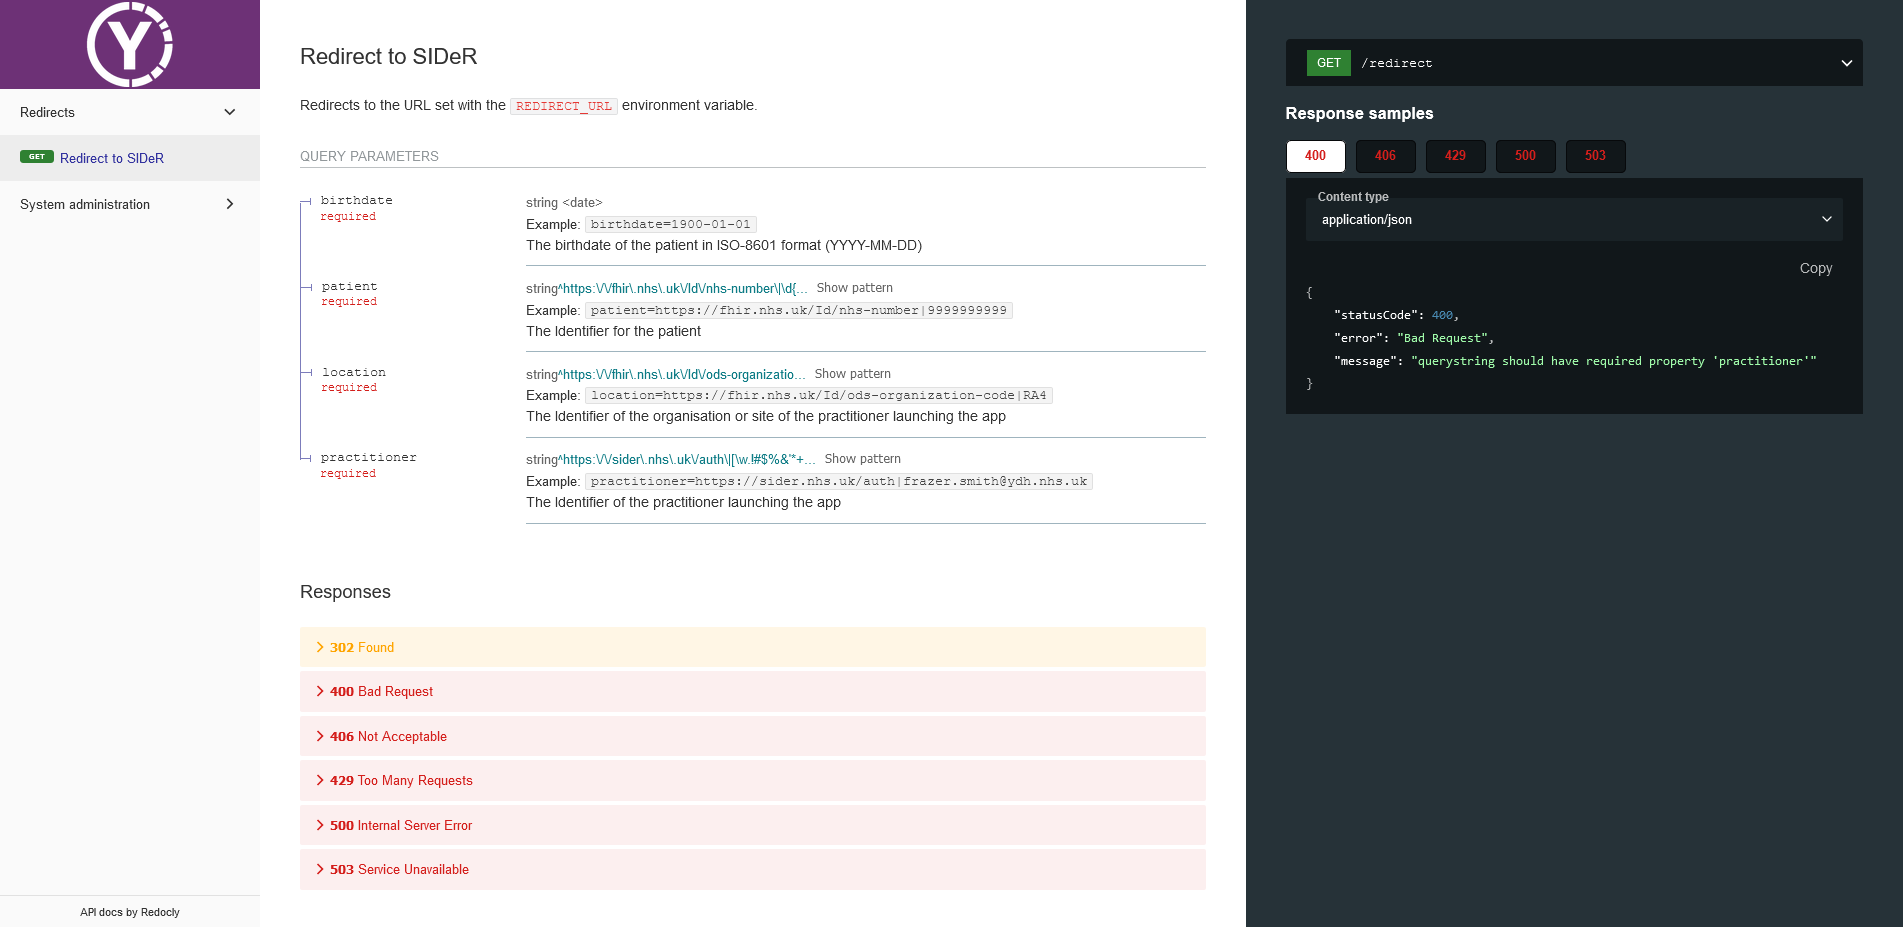
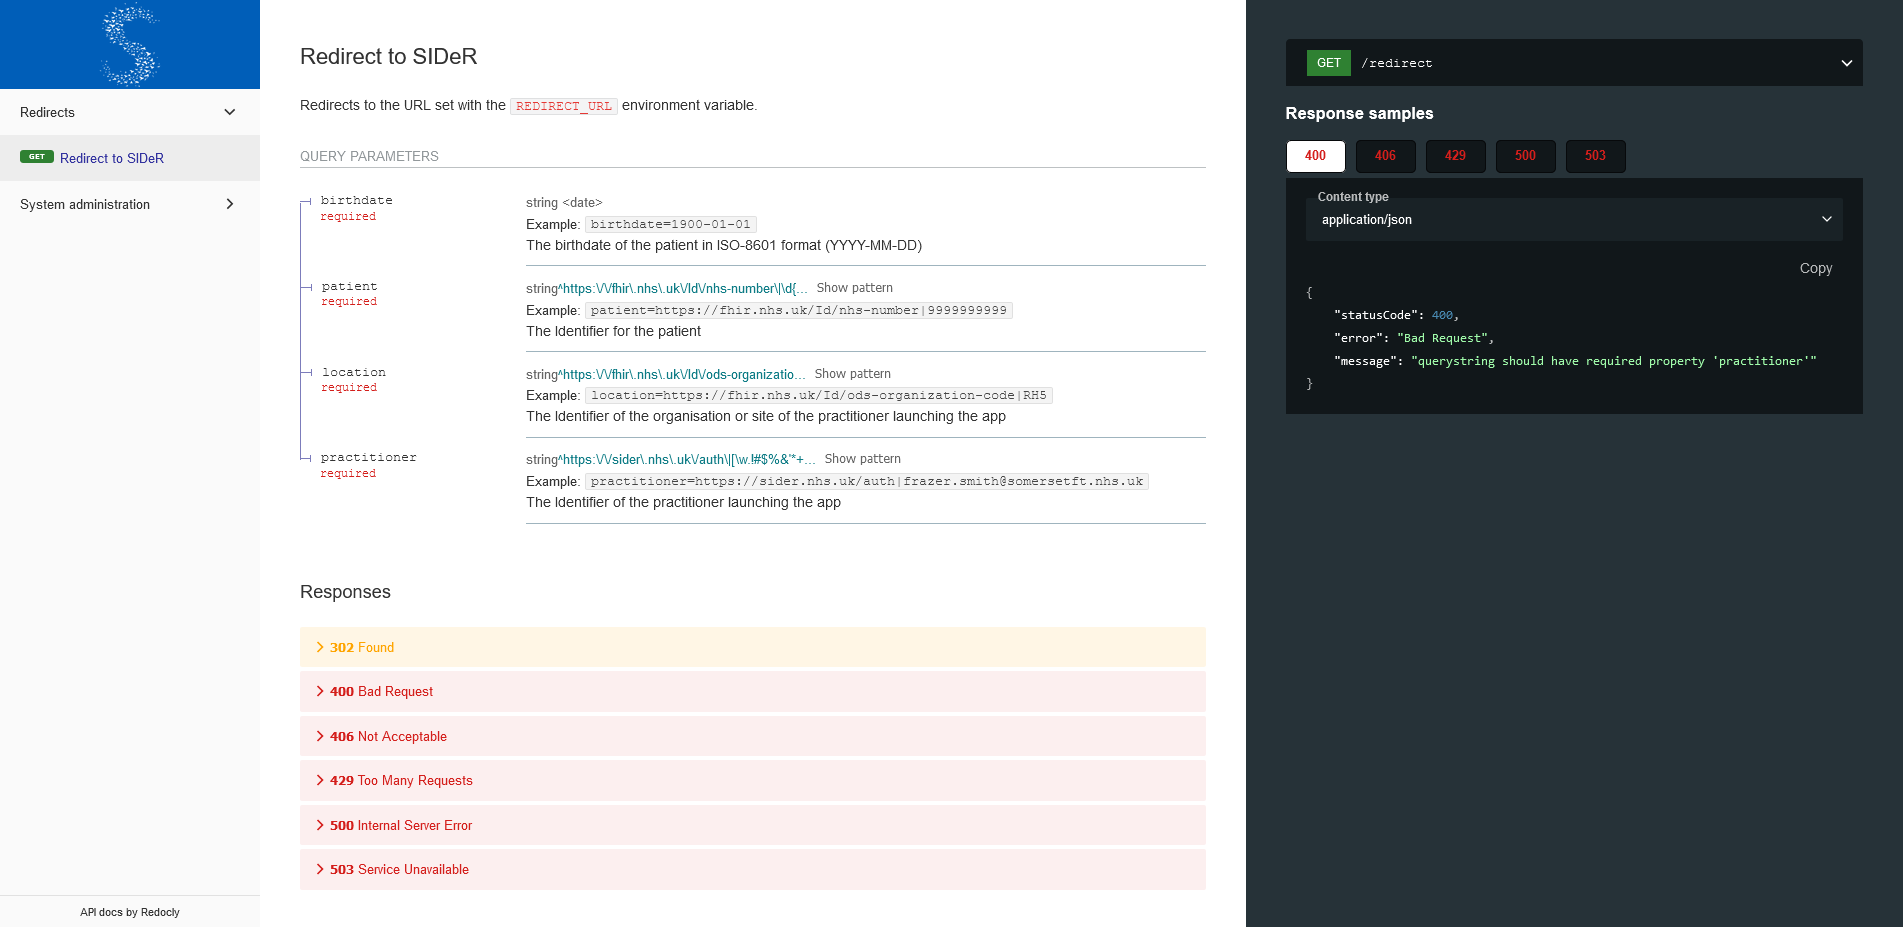
chore: replace ydh nhsft branding and links with somerset nhsft (#1214)
* test: replace ydh.nhs.uk domain

* chore: replace ydh nhsft branding and links with somerset nhsft

Changed region(s): [[0.0, 0.0, 0.155, 0.1208], [0.5271, 0.5135, 0.5891, 0.5437]]

diff --git a/src/server.test.js b/src/server.test.js
@@ -183,7 +183,7 @@ describe("Server deployment", () => {
 				},
 				request: {
 					headers: {
-						origin: "https://notreal.ydh.nhs.uk",
+						origin: "https://notreal.somersetft.nhs.uk",
 					},
 				},
 				expected: {
@@ -192,12 +192,12 @@ describe("Server deployment", () => {
 							json: {
 								...expResHeadersJson,
 								"access-control-allow-origin":
-									"https://notreal.ydh.nhs.uk",
+									"https://notreal.somersetft.nhs.uk",
 							},
 							text: {
 								...expResHeadersText,
 								"access-control-allow-origin":
-									"https://notreal.ydh.nhs.uk",
+									"https://notreal.somersetft.nhs.uk",
 							},
 						},
 					},
@@ -206,11 +206,11 @@ describe("Server deployment", () => {
 			{
 				testName: "CORS enabled and set to string",
 				envVariables: {
-					CORS_ORIGIN: "https://notreal.ydh.nhs.uk",
+					CORS_ORIGIN: "https://notreal.somersetft.nhs.uk",
 				},
 				request: {
 					headers: {
-						origin: "https://notreal.ydh.nhs.uk",
+						origin: "https://notreal.somersetft.nhs.uk",
 					},
 				},
 				expected: {
@@ -219,12 +219,12 @@ describe("Server deployment", () => {
 							json: {
 								...expResHeadersJson,
 								"access-control-allow-origin":
-									"https://notreal.ydh.nhs.uk",
+									"https://notreal.somersetft.nhs.uk",
 							},
 							text: {
 								...expResHeadersText,
 								"access-control-allow-origin":
-									"https://notreal.ydh.nhs.uk",
+									"https://notreal.somersetft.nhs.uk",
 							},
 						},
 					},
@@ -234,13 +234,13 @@ describe("Server deployment", () => {
 				testName: "Cors enabled and set to array of strings",
 				envVariables: {
 					CORS_ORIGIN: [
-						"https://notreal.ydh.nhs.uk",
+						"https://notreal.somersetft.nhs.uk",
 						"https://notreal.sft.nhs.uk",
 					],
 				},
 				request: {
 					headers: {
-						origin: "https://notreal.ydh.nhs.uk",
+						origin: "https://notreal.somersetft.nhs.uk",
 					},
 				},
 				expected: {
@@ -249,12 +249,12 @@ describe("Server deployment", () => {
 							json: {
 								...expResHeadersJson,
 								"access-control-allow-origin":
-									"https://notreal.ydh.nhs.uk",
+									"https://notreal.somersetft.nhs.uk",
 							},
 							text: {
 								...expResHeadersText,
 								"access-control-allow-origin":
-									"https://notreal.ydh.nhs.uk",
+									"https://notreal.somersetft.nhs.uk",
 							},
 						},
 					},
@@ -267,7 +267,7 @@ describe("Server deployment", () => {
 				},
 				request: {
 					headers: {
-						origin: "https://notreal.ydh.nhs.uk",
+						origin: "https://notreal.somersetft.nhs.uk",
 					},
 				},
 				expected: {

diff --git a/src/config/index.js b/src/config/index.js
@@ -274,7 +274,7 @@ async function getConfig() {
 				info: {
 					title: "SIDeR Contextual Link Obfuscation Service",
 					description:
-						'<a href="https://yeovilhospital.co.uk/">Yeovil District Hospital NHSFT</a>\'s SIDeR contextual link obfuscation service, a Node.js application using the <a href="https://fastify.io/">Fastify web framework</a> and Black Pear\'s <a href="https://github.com/BlackPearSw/obfuscated-querystring/">obfuscated-querystring</a>.',
+						'<a href="https://somersetft.nhs.uk/yeovilhospital/">Yeovil Hospital</a>\'s SIDeR contextual link obfuscation service, a Node.js application using the <a href="https://fastify.io/">Fastify web framework</a> and Black Pear\'s <a href="https://github.com/BlackPearSw/obfuscated-querystring/">obfuscated-querystring</a>.',
 					contact: {
 						name: "Author",
 						email: "frazer.smith@somersetft.nhs.uk",
@@ -286,10 +286,9 @@ async function getConfig() {
 					version,
 					// Redoc specific extension to support loading image in docs
 					"x-logo": {
-						url: "/public/images/ydh-y-logo-transparent-background-wide-canvas.png",
-						backgroundColor: "#6D3176",
-						altText:
-							"Yeovil District Hospital NHS Foundation Trust logo",
+						url: "/public/images/sft-s-logo-transparent-background-wide-canvas.png",
+						backgroundColor: "#005EB8",
+						altText: "Somerset NHS Foundation Trust Logo",
 					},
 				},
 				// Components object populated by shared schemas at launch

diff --git a/src/plugins/keycloak-access-token/plugin.test.js b/src/plugins/keycloak-access-token/plugin.test.js
@@ -17,7 +17,7 @@ const testKeycloakConfig = {
 			requested_token_type:
 				"urn:ietf:params:oauth:token-type:access_token",
 		},
-		url: "https://sso.ydh.nhs.uk/token",
+		url: "https://sso.somersetft.nhs.uk/token",
 	},
 	serviceAuthorisation: {
 		form: {
@@ -27,7 +27,7 @@ const testKeycloakConfig = {
 			password: "mock-password",
 			username: "mock-user@somersetft.nhs.uk",
 		},
-		url: "https://sso.ydh.nhs.uk/service-auth",
+		url: "https://sso.somersetft.nhs.uk/service-auth",
 	},
 };
 
@@ -44,7 +44,7 @@ describe("Keycloak access token retrieval plugin", () => {
 	beforeAll(() => {
 		nock.disableNetConnect();
 
-		nock("https://sso.ydh.nhs.uk")
+		nock("https://sso.somersetft.nhs.uk")
 			.defaultReplyHeaders({
 				"cache-control": "no-store",
 				"content-type": "application/json",

diff --git a/src/config/config.test.js b/src/config/config.test.js
@@ -398,22 +398,22 @@ describe("Configuration", () => {
 			testName: "CORS origin set to comma-delimited string value",
 			envVariables: {
 				CORS_ORIGIN:
-					"https://test1.ydh.nhs.uk, https://test2.ydh.nhs.uk",
+					"https://test1.somersetft.nhs.uk, https://test2.somersetft.nhs.uk",
 			},
 			expected: {
 				origin: expect.arrayContaining([
-					"https://test1.ydh.nhs.uk",
-					"https://test2.ydh.nhs.uk",
+					"https://test1.somersetft.nhs.uk",
+					"https://test2.somersetft.nhs.uk",
 				]),
 			},
 		},
 		{
 			testName: "CORS origin set to string value",
 			envVariables: {
-				CORS_ORIGIN: "https://ydh.nhs.uk",
+				CORS_ORIGIN: "https://somersetft.nhs.uk",
 			},
 			expected: {
-				origin: "https://ydh.nhs.uk",
+				origin: "https://somersetft.nhs.uk",
 			},
 		},
 	])(

diff --git a/src/routes/docs/index.html b/src/routes/docs/index.html
@@ -4,7 +4,7 @@
 		<meta charset="utf-8" />
 		<meta
 			name="description"
-			content="Reference documentation and OpenAPI definitions for Yeovil District Hospital NHSFT's SIDeR contextual link obfuscation service." />
+			content="Reference documentation and OpenAPI definitions for Yeovil Hospital's SIDeR contextual link obfuscation service." />
 		<meta name="author" content="Frazer Smith, Solutions Development" />
 		<meta name="viewport" content="width=device-width, initial-scale=1" />
 

diff --git a/README.md b/README.md
@@ -1,21 +1,21 @@
-<a href="https://yeovilhospital.co.uk/">
-	<img alttext="Yeovil District Hospital logo" src="https://github.com/Fdawgs/ydh-logos/raw/HEAD/images/ydh-full-logo-transparent-background.svg" width="480" />
+<a href="https://somersetft.nhs.uk/yeovilhospital/">
+	<img alttext="Somerset NHSFT logo" src="https://github.com/TauntonandSomersetNHSTrust/sft-logos/raw/HEAD/images/sft-nhsft-logo-left-aligned-transparent-background.png" width="480" />
 </a>
 
-# Yeovil District Hospital NHS Foundation Trust - SIDeR Contextual Link Obfuscation Service
+# Yeovil Hospital - SIDeR Contextual Link Obfuscation Service
 
 [![GitHub Release](https://img.shields.io/github/release/Fdawgs/ydh-sider-obfuscation-service.svg)](https://github.com/Fdawgs/ydh-sider-obfuscation-service/releases/latest/)
 ![Build Status](https://github.com/Fdawgs/ydh-sider-obfuscation-service/workflows/CI/badge.svg?branch=main)
 [![Coverage Status](https://coveralls.io/repos/github/Fdawgs/ydh-sider-obfuscation-service/badge.svg?branch=main)](https://coveralls.io/github/Fdawgs/ydh-sider-obfuscation-service?branch=main)
 [![code style: prettier](https://img.shields.io/badge/code_style-prettier-ff69b4.svg?style=flat)](https://github.com/prettier/prettier)
 
-> Yeovil District Hospital NHSFT's SIDeR contextual link obfuscation service
+> Yeovil Hospital's SIDeR contextual link obfuscation service
 
 ## Overview
 
-This is [Yeovil District Hospital NHSFT](https://yeovilhospital.co.uk/)'s SIDeR contextual link obfuscation service, a Node.js application using the [Fastify](https://fastify.io/) web framework and Black Pear's [obfuscated-querystring](https://github.com/BlackPearSw/obfuscated-querystring).
+This is [Yeovil Hospital](https://somersetft.nhs.uk/yeovilhospital/)'s SIDeR contextual link obfuscation service, a Node.js application using the [Fastify](https://fastify.io/) web framework and Black Pear's [obfuscated-querystring](https://github.com/BlackPearSw/obfuscated-querystring).
 
-This service was created out of a need for query string parameters containing personally identifiable data [to be obfuscated](https://github.com/Somerset-SIDeR-Programme/SIDeR-interop-patterns/wiki/query-string-obfuscation) when users click on the [SIDeR](https://nhssomerset.nhs.uk/about-us/digital-projects/sider/) contextual link within Yeovil District Hospital NHSFT's Patient Administration System (PAS), InterSystems TrakCare.
+This service was created out of a need for query string parameters containing personally identifiable data [to be obfuscated](https://github.com/Somerset-SIDeR-Programme/SIDeR-interop-patterns/wiki/query-string-obfuscation) when users click on the [SIDeR](https://nhssomerset.nhs.uk/about-us/digital-projects/sider/) contextual link within Yeovil Hospital's Patient Administration System (PAS), InterSystems TrakCare.
 
 A video demonstrating the contextual link in action can be found [here](./docs/videos/).
 
@@ -100,7 +100,7 @@ The underlying OpenAPI definitions are found at `/docs/openapi`.
 
 <img src="https://raw.githubusercontent.com/Fdawgs/ydh-sider-obfuscation-service/main/docs/images/ydh_trakcare_sider_contextual_link.png" width="474">
 
-This section is for members of the Solutions Development and Application Support teams at Yeovil District Hospital NHSFT, or other NHS Trusts that use InterSystems TrakCare as their PAS.
+This section is for members of the Solutions Development and Application Support teams at Yeovil Hospital, or other NHS Trusts that use InterSystems TrakCare as their PAS.
 
 To adhere to Black Pear/NHS Somerset ICB's [contextual launch specification](https://github.com/Somerset-SIDeR-Programme/SIDeR-interop-patterns/wiki/contextual-launch), the SIDeR contextual link's icon profile values in TrakCare must be set to the following:
 
